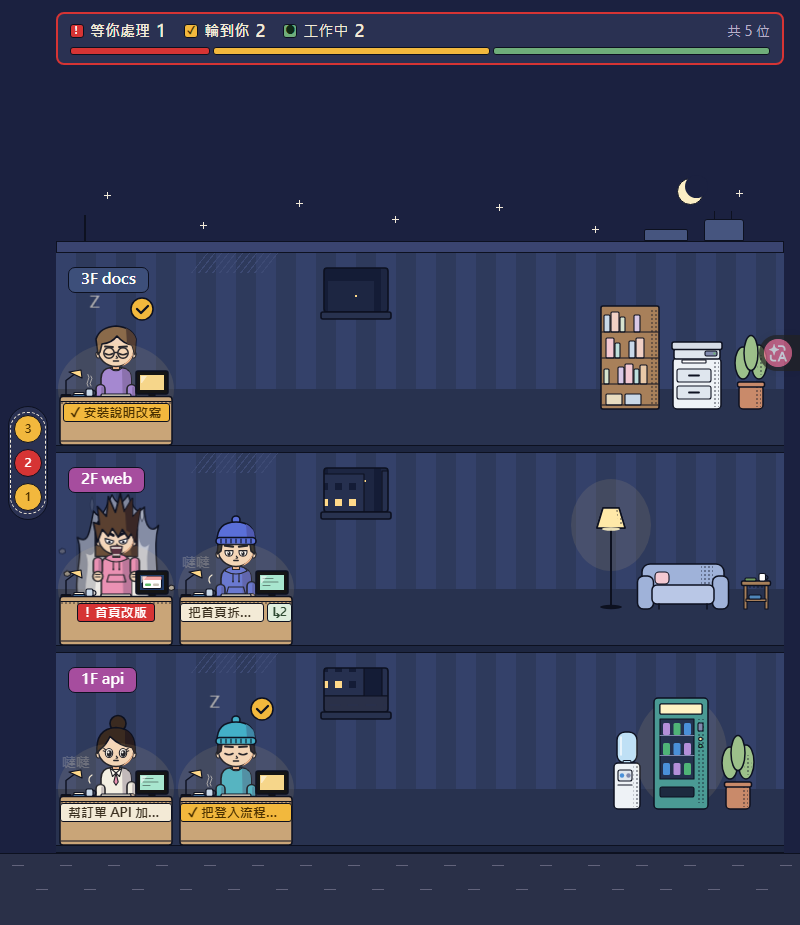
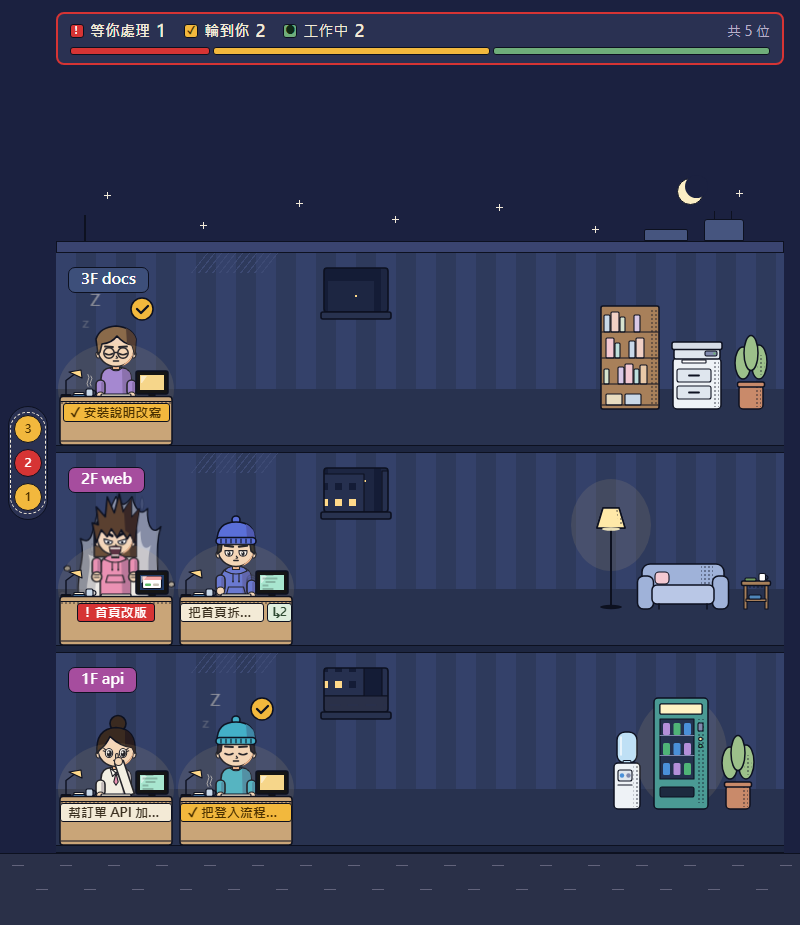
feat: 工作中改成殘像打字，取代「噠噠」
- 打字的手後面兩層半透明殘影（.3、.2），落後一點跟著動，往左錯開才不會整個藏在手後面；前臂上移，手露在桌緣
- 約每 7 秒停下來推一次鼻子：打字的手整組換成右手食指推鼻樑約 0.9 秒
- view.ts 新增 motionDelay(sessionId)，person.ts 設成 --delay，打字和推鼻子每個人錯開；Person 改收 sessionId
- 工作中的螢幕程式碼一行一行往上捲。Chromium 不會把 CSS 動畫帶進 <use> 的複本，所以程式碼（DESK_CODE）不放在桌子 symbol 裡，由 floor.ts 疊在每張桌子上，依 data-st 只在工作中顯示
- 拿掉「噠噠」和打字速度線（fx-work 群組）
- 測試：motionDelay 穩定且分散；殘影只在 data-act="work" 顯示並依 --delay 錯開；螢幕程式碼只在工作中顯示，減少動態時停住、不改 display
- README 狀態表、design.md 跟著改，日夜截圖重拍

diff --git a/web/src/styles/figure.css b/web/src/styles/figure.css
@@ -13,7 +13,7 @@
 /* 白天：白色氣場疊在奶油色牆上看不出來，外圍加一圈冷藍光暈襯出輪廓（不用紅、琥珀）；夜晚維持原樣 */
 :root:not([data-time="night"]) .person .aura { filter: drop-shadow(0 0 2px rgba(60, 110, 190, .7)) drop-shadow(0 0 5px rgba(60, 110, 190, .45)); }
 /* 漫符、氣場、小石子超出人物框，不接滑鼠（資訊卡只認人） */
-.person .fx-work, .person .fx-turn, .person .fx-in, .person .fx-out, .person .aura, .person .rocks { pointer-events: none; }
+.person .fx-turn, .person .fx-in, .person .fx-out, .person .aura, .person .rocks { pointer-events: none; }
 
 /* 坐下／站起：data-act 一換就播 300ms */
 .person .fig, .person .leg { transition: transform 300ms ease-in-out, opacity 300ms ease-in-out; }
@@ -24,10 +24,10 @@
 
 /* 表情、漫符與爆氣的部件：預設全藏，只露目前狀態的那一組（動畫也只掛在看得到的狀態上） */
 .person .face-work, .person .face-wait, .person .face-turn,
-.person .fx-work, .person .fx-turn, .person .aura, .person .rocks, .person .hair-up, .person .arms-fist { display: none; }
+.person .fx-turn, .person .aura, .person .rocks, .person .hair-up, .person .arms-fist { display: none; }
 .person[data-act="work"] .face-work,
 .person[data-act="up"] .face-wait, .person[data-act="idle"] .face-turn,
-.person[data-act="work"] .fx-work, .person[data-act="idle"] .fx-turn,
+.person[data-act="idle"] .fx-turn,
 .person[data-act="up"] .aura, .person[data-act="up"] .rocks, .person[data-act="up"] .hair-up, .person[data-act="up"] .arms-fist { display: inline; }
 /* 爆氣時平常的頭髮和打字的手換掉 */
 .person[data-act="up"] .hair, .person[data-act="up"] .arms-type { display: none; }
@@ -36,19 +36,30 @@
    動畫放在 .figure（整張人物 SVG），不放 .fig：.fig 的 transform 給站起來用。600／500 與 person.ts 的 ENTER_MS／EXIT_MS 同值 */
 .person .fx-in, .person .fx-out { display: none; }
 .person[data-fx="in"] .fx-in, .person[data-fx="out"] .fx-out { display: inline; }
-.person[data-fx] .fx-work, .person[data-fx] .fx-turn, .person[data-fx] .aura, .person[data-fx] .rocks { display: none !important; }
+.person[data-fx] .fx-turn, .person[data-fx] .aura, .person[data-fx] .rocks { display: none !important; }
 .person .figure { transform-origin: 50% 100%; }
 .person[data-fx="in"] .figure { animation: fig-in 600ms ease-out; }
 .person[data-fx="out"] .figure { animation: fig-out 500ms ease-in forwards; }
 @keyframes fig-in { 0% { transform: scale(.6); } 55% { transform: scale(1.12); } 100% { transform: scale(1); } }
 @keyframes fig-out { to { opacity: 0; transform: translateY(-6px); } } /* 只飄 6px：貼紙頂端 y −23，再高會蓋到招牌（測試檢查） */
 
-/* 工作中：兩手輪流上下（錯開半週期），「噠噠」閃 */
-.person[data-act="work"] .arm-l { animation: fig-type .42s ease-in-out infinite; }
-.person[data-act="work"] .arm-r { animation: fig-type .42s ease-in-out .21s infinite; }
-.person[data-act="work"] .sfx { animation: fig-sfx .84s steps(1) infinite; }
-@keyframes fig-type { 50% { transform: translateY(-3px); } }
-@keyframes fig-sfx { 50% { opacity: .25; } }
+/* 工作中：殘像打字。兩手輪流飛快上下（錯開半週期），兩層殘影落後一點跟著動。
+   約每 7 秒停下來推一次鼻子：打字的手整組換成推鼻子的姿勢約 0.9 秒。--delay 由 person.ts 依 sessionId 設（負值），每個人錯開 */
+.person .ghost, .person .nose { display: none; }
+.person[data-act="work"] .ghost, .person[data-act="work"] .nose { display: inline; }
+/* 殘影往左錯開（translate 和動畫的 transform 疊加），不然整個藏在真的手後面；往右會被螢幕擋住 */
+.person .ghost-1 { opacity: .3; --ghost-lag: .06s; translate: -3px 0; }
+.person .ghost-2 { opacity: .2; --ghost-lag: .12s; translate: -6px 0; }
+.person .arm-r, .person .ghost-r { --phase: .12s; }
+.person[data-act="work"] .arm, .person[data-act="work"] .ghost { animation: fig-type .24s ease-in-out calc(var(--delay, 0s) - var(--phase, 0s) + var(--ghost-lag, 0s)) infinite; }
+.person .nose { opacity: 0; }
+.person[data-act="work"] .typing { animation: fig-typing 7s step-end var(--delay, 0s) infinite; }
+.person[data-act="work"] .nose { animation: fig-nose 7s step-end var(--delay, 0s) infinite; }
+.person[data-act="work"] .push { animation: fig-push 7s ease-in-out var(--delay, 0s) infinite; }
+@keyframes fig-type { 50% { transform: translateY(-5px); } }
+@keyframes fig-typing { 0% { opacity: 1; } 87% { opacity: 0; } }
+@keyframes fig-nose { 0% { opacity: 0; } 87% { opacity: 1; } }
+@keyframes fig-push { 0%, 90% { transform: none; } 93% { transform: translateY(-1.5px); } 96%, 100% { transform: none; } }
 
 /* 等你處理：爆氣。站起來握拳，只有角色自己抖動（.shake 在 .fig 裡面）；氣場三層各自跳動、火舌往上竄、小石子往上飄。
    幅度與 figure.ts 的 SHAKE、FLARE／FLARE_SKEW、TONGUE_RISE、ROCK_RISE 同值（外框測試用那邊的數字） */

diff --git a/web/src/figure.ts b/web/src/figure.ts
@@ -135,11 +135,20 @@ function body(look: Look): string {
     + path('M36 41.5 Q45 42.5 45 51.5 L45 85.5 L37 85.5Z', undefined, fill(clothShade(c))) + outfit);
 }
 
-/** 只露前臂：打字時手在桌緣（大半被桌子擋住） */
-const arm = (side: 'l' | 'r', look: Look) => {
+/** 只露前臂：打字時手在桌緣（下半被桌子擋住，殘影才看得到手）。cls 預設是會打字的手，殘影和推鼻子時靜止的左手另給 class */
+const arm = (side: 'l' | 'r', look: Look, cls = `arm arm-${side}`) => {
   const c = SHIRT_COLORS[look.shirt]!, x = side === 'l' ? 10 : 41;
-  return g(`arm arm-${side}`, rect(x, 57.5, 9, 16, 4.5, 'ol', fill(c)) + rect(x + 5.2, 59.5, 2.6, 12, 1.3, undefined, fill(clothShade(c)))
-    + circle(x + 4.5, 73.5, 4, 'mk-thin', SKIN));
+  return g(cls, rect(x, 53, 9, 16, 4.5, 'ol', fill(c)) + rect(x + 5.2, 55, 2.6, 12, 1.3, undefined, fill(clothShade(c)))
+    + circle(x + 4.5, 69, 4, 'mk-thin', SKIN));
+};
+/** 殘像打字：每隻手後面兩層殘影（透明度和落後的時間在 figure.css），排在真的手前面才會畫在後面 */
+const typing = (look: Look) => (['l', 'r'] as const).map((s) =>
+  arm(s, look, `ghost ghost-2 ghost-${s}`) + arm(s, look, `ghost ghost-1 ghost-${s}`) + arm(s, look)).join('');
+/** 推鼻子：左手停在桌緣，右手手肘撐桌、食指推到鼻樑（眼鏡中間） */
+const nosePush = (look: Look) => {
+  const c = SHIRT_COLORS[look.shirt]!;
+  return arm('l', look, 'arm-rest') + g('push', path('M48.3 66.6 L39.7 69.4 L28.7 36.4 L37.3 33.6Z', 'ol', fill(c))
+    + rect(29.6, 26.5, 2.6, 8, 1.3, 'mk-thin', SKIN) + circle(32.5, 34.5, 4, 'mk-thin', SKIN));
 };
 
 // ── 爆氣 ──
@@ -190,7 +199,6 @@ const leg = (side: 'l' | 'r') => {
 // ── 漫符 ──
 
 const BUBBLE = { cx: 56, cy: -18, r: 11 };
-const SFX = { x: -24, y: 40, size: 14 }; // 「噠噠」
 const Z1 = { x: -4, y: -4, size: 13 }, Z2 = { x: 0, y: -14, size: 16 };
 /** 進出貼紙：白底墨線小框（左下一個小尾巴指向頭），和「！」框同在頭的右上方；文字置中 */
 const STICK_IN = { x: 44, y: -20, w: 42, h: 18, size: 13, text: '到！' };
@@ -203,8 +211,6 @@ const sticker = (s: Stick) =>
   + text(s.x + s.w / 2, s.y + s.h - 5, s.size, s.text, INK, undefined, 'middle'); // 白底貼紙：字用墨色（夜晚的 --fx 是淺色）
 
 const FX = {
-  work: text(SFX.x, SFX.y, SFX.size, '噠噠', fill('var(--fx)'), 'sfx')
-    + path('M6 48 q-5 3 -2 8 M54 48 q5 3 2 8', 'speed', FX_STROKE(1.2)),
   turn: g('bubble', circle(BUBBLE.cx, BUBBLE.cy, BUBBLE.r, 'mk', fill('var(--turn)'))
     + path(`M${BUBBLE.cx - 5} ${BUBBLE.cy} l4 4 l7 -7`, undefined, 'fill:none;stroke:var(--fig-ink);stroke-width:2.3;stroke-linecap:round;stroke-linejoin:round'))
     + text(Z1.x, Z1.y, Z1.size, 'z', fill('var(--fx)'), 'z1') + text(Z2.x, Z2.y, Z2.size, 'Z', fill('var(--fx)'), 'z2'),
@@ -212,14 +218,15 @@ const FX = {
   out: path(RISE, 'speed', FX_STROKE(1.4)) + sticker(STICK_OUT),
 };
 
-/** 一個人物（照美術定稿，坐著時不畫椅子）：氣場（排在人後面）、人（腿、後髮、身體、打字或握拳的手、頭）、小石子、漫符與進出貼紙；
+/** 一個人物（照美術定稿，坐著時不畫椅子）：氣場（排在人後面）、人（腿、後髮、身體、打字或握拳的手、頭、推鼻子的手）、小石子、漫符與進出貼紙；
  *  顯示哪個表情、姿勢、漫符交給 CSS 依 data-act／data-fx 決定。.fig 的 transform 給站起來用，抖動放在裡面的 .shake */
 export function figureSvg(look: Look): string {
   const fig = g('fig', g('shake', leg('l') + leg('r') + g('hair-back', hair(look).back)
-    + body(look) + g('arms-type', arm('l', look) + arm('r', look)) + g('arms-fist', fists(look)) + head(look, ['work', 'wait', 'turn'])));
+    + body(look) + g('arms-type', g('typing', typing(look))) + g('arms-fist', fists(look)) + head(look, ['work', 'wait', 'turn'])
+    + g('nose', nosePush(look)))); // 推鼻子的手要蓋在臉上，排在頭後面
   return tag('svg', { class: 'figure', xmlns: 'http://www.w3.org/2000/svg', viewBox: `0 0 ${FIG.w} ${FIG.h}`, overflow: 'visible' },
     AURA_SVG + fig + ROCKS_SVG
-    + g('fx-work', FX.work) + g('fx-turn', FX.turn) + g('fx-in', FX.in) + g('fx-out', FX.out));
+    + g('fx-turn', FX.turn) + g('fx-in', FX.in) + g('fx-out', FX.out));
 }
 
 /** 資訊卡頭像：頭與肩膀、睜眼（工作中的臉），viewBox 只框頭肩 */

diff --git a/test/figure.test.ts b/test/figure.test.ts
@@ -38,7 +38,7 @@ test('.person 與人物 SVG 的寬高等於人物框 FIG', () => {
 
 test('每個部件與漫符群組都在', () => {
   const names = ['fig', 'shake', 'leg-l', 'leg-r', 'hair-back', 'arms-type', 'arm-l', 'body', 'arm-r', 'arms-fist', 'head', 'hair', 'hair-up',
-    'aura', 'rocks', 'fx-work', 'fx-turn', 'fx-in', 'fx-out', 'face-work', 'face-wait', 'face-turn'];
+    'aura', 'rocks', 'ghost', 'fx-turn', 'fx-in', 'fx-out', 'face-work', 'face-wait', 'face-turn'];
   for (const l of looks) {
     const s = figureSvg(l);
     for (const n of names) expect(s, n).toMatch(new RegExp(`class="([^"]* )?${n}( [^"]*)?"`));
@@ -55,7 +55,7 @@ test('figure.css 的狀態規則：漫符與爆氣群組只在對應狀態顯示
   const hidden = css.match(/([^{}]*)\{ display: none; \}/g)?.join('\n') ?? '';
   const shown = css.match(/([^{}]*)\{ display: inline; \}/g)?.join('\n') ?? '';
   // 預設藏起來，只在對應狀態顯示
-  for (const [act, grp] of [['work', 'fx-work'], ['idle', 'fx-turn'], ['up', 'aura'], ['up', 'rocks'], ['up', 'hair-up'], ['up', 'arms-fist']]) {
+  for (const [act, grp] of [['work', 'ghost'], ['idle', 'fx-turn'], ['up', 'aura'], ['up', 'rocks'], ['up', 'hair-up'], ['up', 'arms-fist']]) {
     expect(hidden, grp).toMatch(new RegExp(`\\.person \\.${grp}[,{ ]`));
     expect(shown, grp).toContain(`.person[data-act="${act}"] .${grp}`);
     for (const other of ['work', 'up', 'idle'].filter((a) => a !== act)) expect(shown, grp).not.toContain(`.person[data-act="${other}"] .${grp}`);
@@ -71,6 +71,17 @@ test('figure.css 的狀態規則：漫符與爆氣群組只在對應狀態顯示
   expect(reduce).toMatch(/animation: none/);
   expect(reduce).toMatch(/transition: none/);
   expect(reduce).not.toMatch(/display/);
+});
+
+test('工作中：殘影跟著打字動，動作依 --delay 錯開；「噠噠」拿掉了', () => {
+  const css = readFileSync('web/src/styles/figure.css', 'utf8');
+  expect(css).toMatch(/\.person\[data-act="work"\] \.ghost[^{]*\{ animation:/);
+  // 推鼻子和打字都依 person.ts 設的 --delay 錯開
+  expect(css).toMatch(/animation:[^;]*var\(--delay/);
+  // 「噠噠」和打字速度線（fx-work 群組）拿掉了
+  const s = figureSvg(looks[0]!);
+  expect(s).not.toContain('噠噠');
+  expect(s).not.toContain('fx-work');
 });
 
 test('名牌小標「↳N」不縮，名牌太長時縮的是文字', () => {
@@ -112,7 +123,7 @@ test('figure.css：data-fx 期間只顯示進出漫符，狀態漫符藏起來',
   expect(css).toMatch(/\.person \.fx-in, \.person \.fx-out \{ display: none; \}/);
   expect(css).toContain('.person[data-fx="in"] .fx-in');
   expect(css).toContain('.person[data-fx="out"] .fx-out');
-  expect(css).toMatch(/\.person\[data-fx\] \.fx-work, \.person\[data-fx\] \.fx-turn, \.person\[data-fx\] \.aura, \.person\[data-fx\] \.rocks \{ display: none !important; \}/);
+  expect(css).toMatch(/\.person\[data-fx\] \.fx-turn, \.person\[data-fx\] \.aura, \.person\[data-fx\] \.rocks \{ display: none !important; \}/);
   // 動畫放在 .figure（不是 .fig，.fig 的 transform 給站起來用）
   expect(css).toMatch(/\.person\[data-fx="in"\] \.figure \{ animation: fig-in 600ms/);
   expect(css).toMatch(/\.person\[data-fx="out"\] \.figure \{ animation: fig-out 500ms/);

diff --git a/web/src/objects.ts b/web/src/objects.ts
@@ -70,7 +70,6 @@ function desk(st: DeskState): string {
   if (st === 'waiting') o += tag('g', { class: 'dialog' }, rect(26.5, -68.5, 19, 12, 1.5, 'mk-thin', WHITE)
     + rect(26.5, -68.5, 19, 3.5, 1, undefined, fill('var(--screen-waiting)'))
     + rect(29, -61.5, 6, 2.5, 1, undefined, fill('#5cba69')) + rect(37, -61.5, 6, 2.5, 1, undefined, fill('#c9c2b6')));
-  if (st === 'working') o += line('M27 -66.5 h10 M27 -63 h15 M27 -59.5 h7', 'mk-thin', 'stroke:var(--monitor);opacity:.45');
   if (lit) o += path('M25 -69 h6 l-5 7 h-1z', undefined, 'fill:#fff;opacity:.5'); // 反光
   // 桌上：筆記本、馬克杯、鍵盤
   o += rect(-43, -50.5, 12, 2, 0.5, 'mk-thin', fill('#4f86b8')) + rect(-42, -52.5, 10, 2, 0.5, 'mk-thin', fill('var(--plate)'))
@@ -83,6 +82,16 @@ function desk(st: DeskState): string {
   o += tone(-55, -43.5, 110, 2.5) + line('M-55 -43.5 H55', 'mk-thin') + line('M-55 -4 H55', 'mk-thin');
   return o;
 }
+
+/** 工作中螢幕上捲動的程式碼。Chromium 不會把 CSS 動畫帶進 <use> 的複本，所以不放在桌子 symbol 裡：
+ *  floor.ts 把這段疊在每張桌子的 svg 上（外層 viewBox 和 symbol 相同，座標照桌子），只在工作中顯示。
+ *  畫兩份接起來，theme.css 的 code-scroll 一行一行往上捲一份的高度後接回開頭 */
+const CODE_LINES = [[27, 10], [30, 12], [30, 7], [27, 14], [30, 9], [27, 5]];
+const CODE_DY = 3.5; // 行距
+const code = (dy: number) => CODE_LINES.map(([x, w], i) => `M${x} ${-66.5 + i * CODE_DY + dy} h${w}`).join(' ');
+export const DESK_CODE = tag('svg', { class: 'desk-code', width: DESK.w, height: DESK.h, viewBox: `${-DESK.w / 2} ${-DESK.h} ${DESK.w} ${DESK.h}`, style: 'overflow:visible' },
+  tag('svg', { x: 24, y: -70, width: 24, height: 15, viewBox: '24 -70 24 15' }, // 內層 svg 切在畫面範圍
+    line(`${code(0)} ${code(CODE_LINES.length * CODE_DY)}`, 'mk-thin code-scroll', 'stroke:var(--monitor);opacity:.45')));
 
 // ── 窗：70×52（含窗台）。只有紙張風墨線窗框與窗台；玻璃裡的風景是下面的全景，由 floor.ts 依窗的位置與樓層露出一塊 ──
 

diff --git a/web/src/floor.ts b/web/src/floor.ts
@@ -2,7 +2,7 @@
 import type { Employee } from '../../src/state/types.js';
 import { GEO, plateText, seatCenter, type Floor } from './floors.js';
 import { furnitureSet, layoutSet, SIGN_MAX_W, SIGN_X, windowView, windowXs } from './furniture.js';
-import { GLASS, OBJECTS, PANO, type DeskState, type ObjectId } from './objects.js';
+import { DESK_CODE, GLASS, OBJECTS, PANO, type DeskState, type ObjectId } from './objects.js';
 import { div, el } from './dom.js';
 
 const SVG_NS = 'http://www.w3.org/2000/svg';
@@ -97,6 +97,7 @@ export class FloorView {
     while (this.desks.length > f.desks) this.desks.pop()!.el.remove();
     while (this.desks.length < f.desks) {
       const desk = div('desk'), pic = useObj('desk-empty', DESK_ORIGIN.x, DESK_ORIGIN.y), plate = div('plate'), text = el('span'), helpers = el('b', 'helpers');
+      pic.insertAdjacentHTML('beforeend', DESK_CODE); // 捲動的程式碼疊在螢幕上（CSS 動畫在 symbol 裡不會動），只在工作中顯示
       helpers.title = '工作中的助理';
       plate.append(text, helpers);
       desk.append(pic, plate); // 圖在名牌之前：名牌（HTML）疊在桌子正面上
@@ -108,6 +109,7 @@ export class FloorView {
       const d = this.desks[i]!;
       const st = deskState(s.occ);
       d.use.setAttribute('href', `#desk-${st}`); // 狀態變了就換 symbol
+      d.el.dataset.st = st; // building.css 依此顯示螢幕上的程式碼
       // 名牌永遠等於這個座位目前的員工；空桌連字與底色一起清掉。「↳N」是工作中的助理數，0 不顯示
       const p = s.occ ? plateText(s.occ) : null;
       d.plate.hidden = !p;

diff --git a/test/objects.test.ts b/test/objects.test.ts
@@ -1,5 +1,6 @@
+import { readFileSync } from 'node:fs';
 import { expect, test } from 'vitest';
-import { OBJECTS, PANO, defsSvg, type ObjectId } from '../web/src/objects.js';
+import { DESK_CODE, OBJECTS, PANO, defsSvg, type ObjectId } from '../web/src/objects.js';
 
 const IDS = Object.keys(OBJECTS) as ObjectId[];
 const DESKS: ObjectId[] = ['desk-empty', 'desk-working', 'desk-waiting', 'desk-idle'];
@@ -76,6 +77,20 @@ test('窗景是一張共用的全景：整片天空、街道與城市', () => {
   expect(pano).toContain(`viewBox="0 0 ${PANO.w} ${PANO.h}"`);
   expect(pano).toContain('var(--window-sky)');
   expect(pano).toContain('var(--city-lit)');
+});
+
+test('螢幕上捲動的程式碼：只在工作中的桌子顯示，減少動態時停住但不藏', () => {
+  expect(DESK_CODE).toContain('code-scroll');
+  expect(DESK_CODE).not.toMatch(/\s(fill|stroke)="(?!none")/);
+  expect(defsSvg()).not.toContain('code-scroll'); // 不在 symbol 裡：CSS 動畫在 <use> 的複本裡不會動
+  const building = readFileSync('web/src/styles/building.css', 'utf8');
+  expect(building).toMatch(/\.desk \.desk-code \{ display: none; \}/);
+  expect(building).toContain('.desk[data-st="working"] .desk-code { display: inline; }');
+  const theme = readFileSync('web/src/styles/theme.css', 'utf8');
+  expect(theme).toMatch(/\.code-scroll \{ animation:/);
+  const reduce = theme.slice(theme.indexOf('@media (prefers-reduced-motion: reduce)'));
+  expect(reduce).toMatch(/\.code-scroll \{ animation: none; \}/);
+  expect(reduce).not.toMatch(/display/);
 });
 
 test('同一份 defs 每次相同', () => {

diff --git a/test/view.test.ts b/test/view.test.ts
@@ -1,11 +1,18 @@
 import { expect, test } from 'vitest';
-import { appearance, assistantList, EYE_TYPES, HAIR_COLORS, HAIR_STYLES, OUTFIT_COUNT, PROJECT_COLORS, projectColor, formatTime, nameplate, SHIRT_COLORS, summary } from '../web/src/view.js';
+import { appearance, assistantList, motionDelay, EYE_TYPES, HAIR_COLORS, HAIR_STYLES, OUTFIT_COUNT, PROJECT_COLORS, projectColor, formatTime, nameplate, SHIRT_COLORS, summary } from '../web/src/view.js';
 import { OfficeStore } from '../web/src/sync.js';
 import type { Assistant, Employee } from '../src/state/types.js';
 
 const emp = (id: string, status: Employee['status'] = 'idle', over: Partial<Employee> = {}): Employee => ({
   sessionId: id, folder: 'proj', cwd: '/x/proj', lastPrompt: 'hi', firstPrompt: '', title: '', transcriptPath: '', status, activity: null,
   seat: 0, arrivedAt: 0, lastEventAt: 0, assistants: [], ...over,
+});
+
+test('motionDelay：同一個 sessionId 每次相同，不同 sessionId 分散在 0–7 秒', () => {
+  expect(motionDelay('abc')).toBe(motionDelay('abc'));
+  const ds = Array.from({ length: 40 }, (_, i) => motionDelay(`sim-${i}`));
+  for (const d of ds) expect(d >= 0 && d < 7, String(d)).toBe(true);
+  expect(new Set(ds.map((d) => Math.floor(d))).size).toBeGreaterThanOrEqual(5); // 7 個 1 秒的格子至少佔 5 個
 });
 
 test('appearance 對同一個 sessionId 永遠相同', () => {

diff --git a/web/src/person.ts b/web/src/person.ts
@@ -2,7 +2,7 @@
 // 姿勢、表情、漫符與動畫全交給 figure.css 依 data-act／data-fx 決定，這裡只設屬性
 import { div } from './dom.js';
 import { figureSvg, FIG } from './figure.js';
-import type { Look } from './view.js';
+import { appearance, motionDelay } from './view.js';
 
 export type Act = 'work' | 'up' | 'idle';
 
@@ -14,8 +14,9 @@ export class Person {
   private act: Act | null = null;
   private fxT: ReturnType<typeof setTimeout> | undefined; // 登場或退場的計時器，同時只有一個
 
-  constructor(look: Look) {
-    this.el.innerHTML = figureSvg(look); // figure.ts 產生、不含使用者資料
+  constructor(sessionId: string) {
+    this.el.innerHTML = figureSvg(appearance(sessionId)); // figure.ts 產生、不含使用者資料
+    this.el.style.setProperty('--delay', `-${motionDelay(sessionId)}s`); // 打字、推鼻子等動作每個人錯開
     this.el.style.marginLeft = `${-FIG.w / 2}px`;
     this.setAct('work');
   }

diff --git a/web/src/styles/building.css b/web/src/styles/building.css
@@ -54,6 +54,8 @@ body { margin: 0; min-height: 100vh; display: flex; flex-direction: column; back
 .furniture { top: 0; right: 0; width: 200px; height: 200px; pointer-events: none; }
 .obj { position: absolute; display: block; overflow: visible; }
 .desk { position: absolute; top: 0; width: 120px; height: 200px; }
+.desk .desk-code { display: none; }
+.desk[data-st="working"] .desk-code { display: inline; } /* 工作中螢幕上捲動的程式碼（objects.ts 的 DESK_CODE） */
 /* 名牌：桌子正面，13px、最寬 112，放不下用「…」；卡片色依狀態：工作中米白（--plate）、等你處理紅、輪到你琥珀。
    右邊的「↳N」是工作中的助理數（淡綠），不縮，名牌太長時縮的是文字 */
 .plate { position: absolute; top: 150px; left: 4px; right: 4px; display: flex; justify-content: center; gap: 3px; }

diff --git a/web/src/building.ts b/web/src/building.ts
@@ -7,7 +7,6 @@ import { FloorView, lobby } from './floor.js';
 import { atBottom, buildingPlan, buildingWidth, floorAlert, GEO, seatCenter, type Floor } from './floors.js';
 import { Person, type Act } from './person.js';
 import type { OfficeStore } from './sync.js';
-import { appearance } from './view.js';
 
 const ACT: Record<Employee['status'], Act> = { working: 'work', waiting: 'up', idle: 'idle' };
 
@@ -157,7 +156,7 @@ export class Building {
         if (!rec) {
           rec = this.comeBack(id, f.key);
           if (!rec) {
-            const p = new Person(appearance(id));
+            const p = new Person(id);
             p.el.dataset.key = id; // floor.ts 依 data-key 找這個座位的員工
             rec = { p, floor: '', emp: e };
             if (animate) p.enter(); // 第一次載入與重新連線時直接坐好

diff --git a/web/src/styles/theme.css b/web/src/styles/theme.css
@@ -89,3 +89,10 @@
 .mk-thin { stroke: var(--fig-ink); stroke-width: 1.1; }
 .ol { stroke: var(--fig-ink); stroke-width: 1.6; }
 .tone { fill: url(#tone); }
+
+/* 工作中螢幕上的程式碼（objects.ts 的 DESK_CODE）：一行一行往上捲，捲完一份（6 行 × 行距 3.5 = 21）接回開頭 */
+.code-scroll { animation: code-scroll 4.8s steps(6) infinite; }
+@keyframes code-scroll { to { transform: translateY(-21px); } }
+@media (prefers-reduced-motion: reduce) {
+  .code-scroll { animation: none; }
+}

diff --git a/web/src/view.ts b/web/src/view.ts
@@ -21,6 +21,9 @@ export const HAIR_STYLES = 6;
 export const OUTFIT_COUNT = 3;
 export const EYE_TYPES = 2;
 
+/** 人物動畫的錯開量（秒，0–7，7 是推鼻子的週期）：person.ts 設成負的 animation-delay，大家不同步。另加字尾雜湊，和外觀互不相關 */
+export const motionDelay = (sessionId: string): number => (hash(`${sessionId}#motion`) % 7000) / 1000;
+
 export const appearance = (sessionId: string): Look => {
   const h = hash(sessionId);
   const n = SHIRT_COLORS.length;
